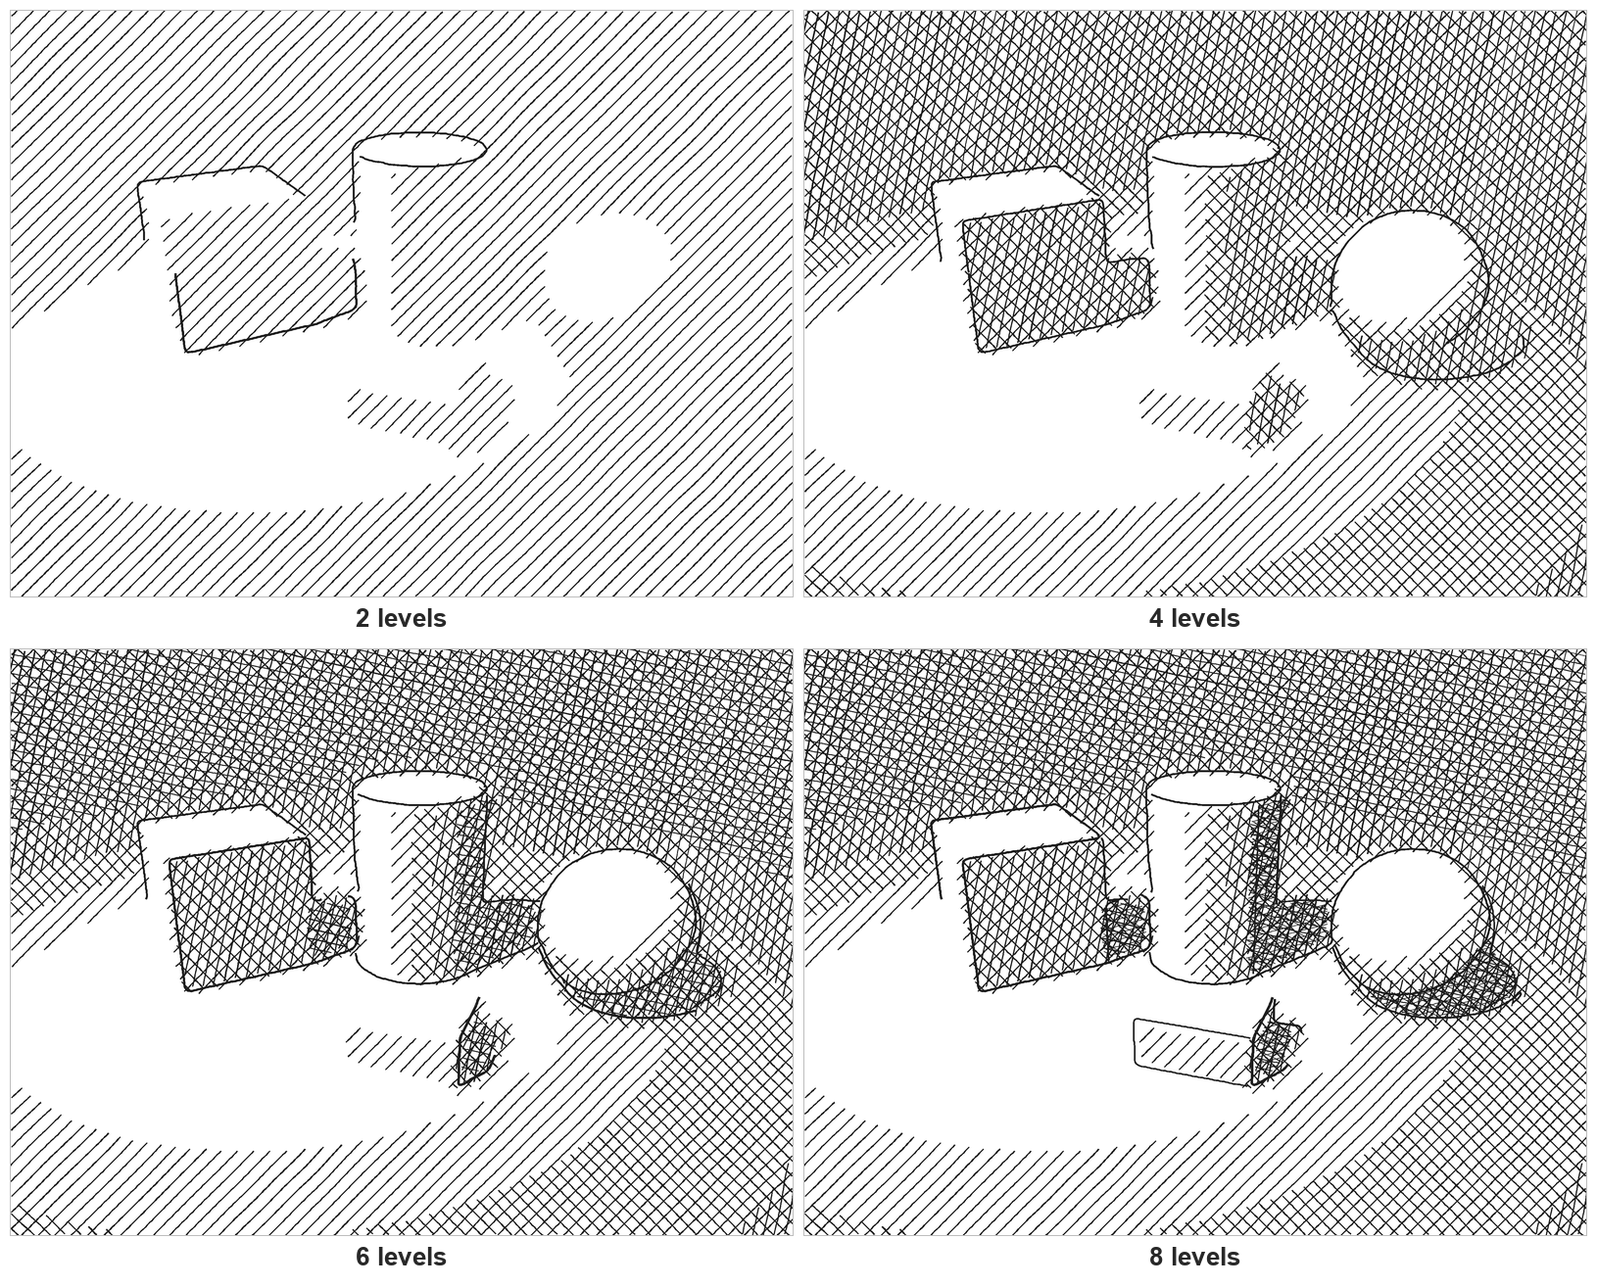
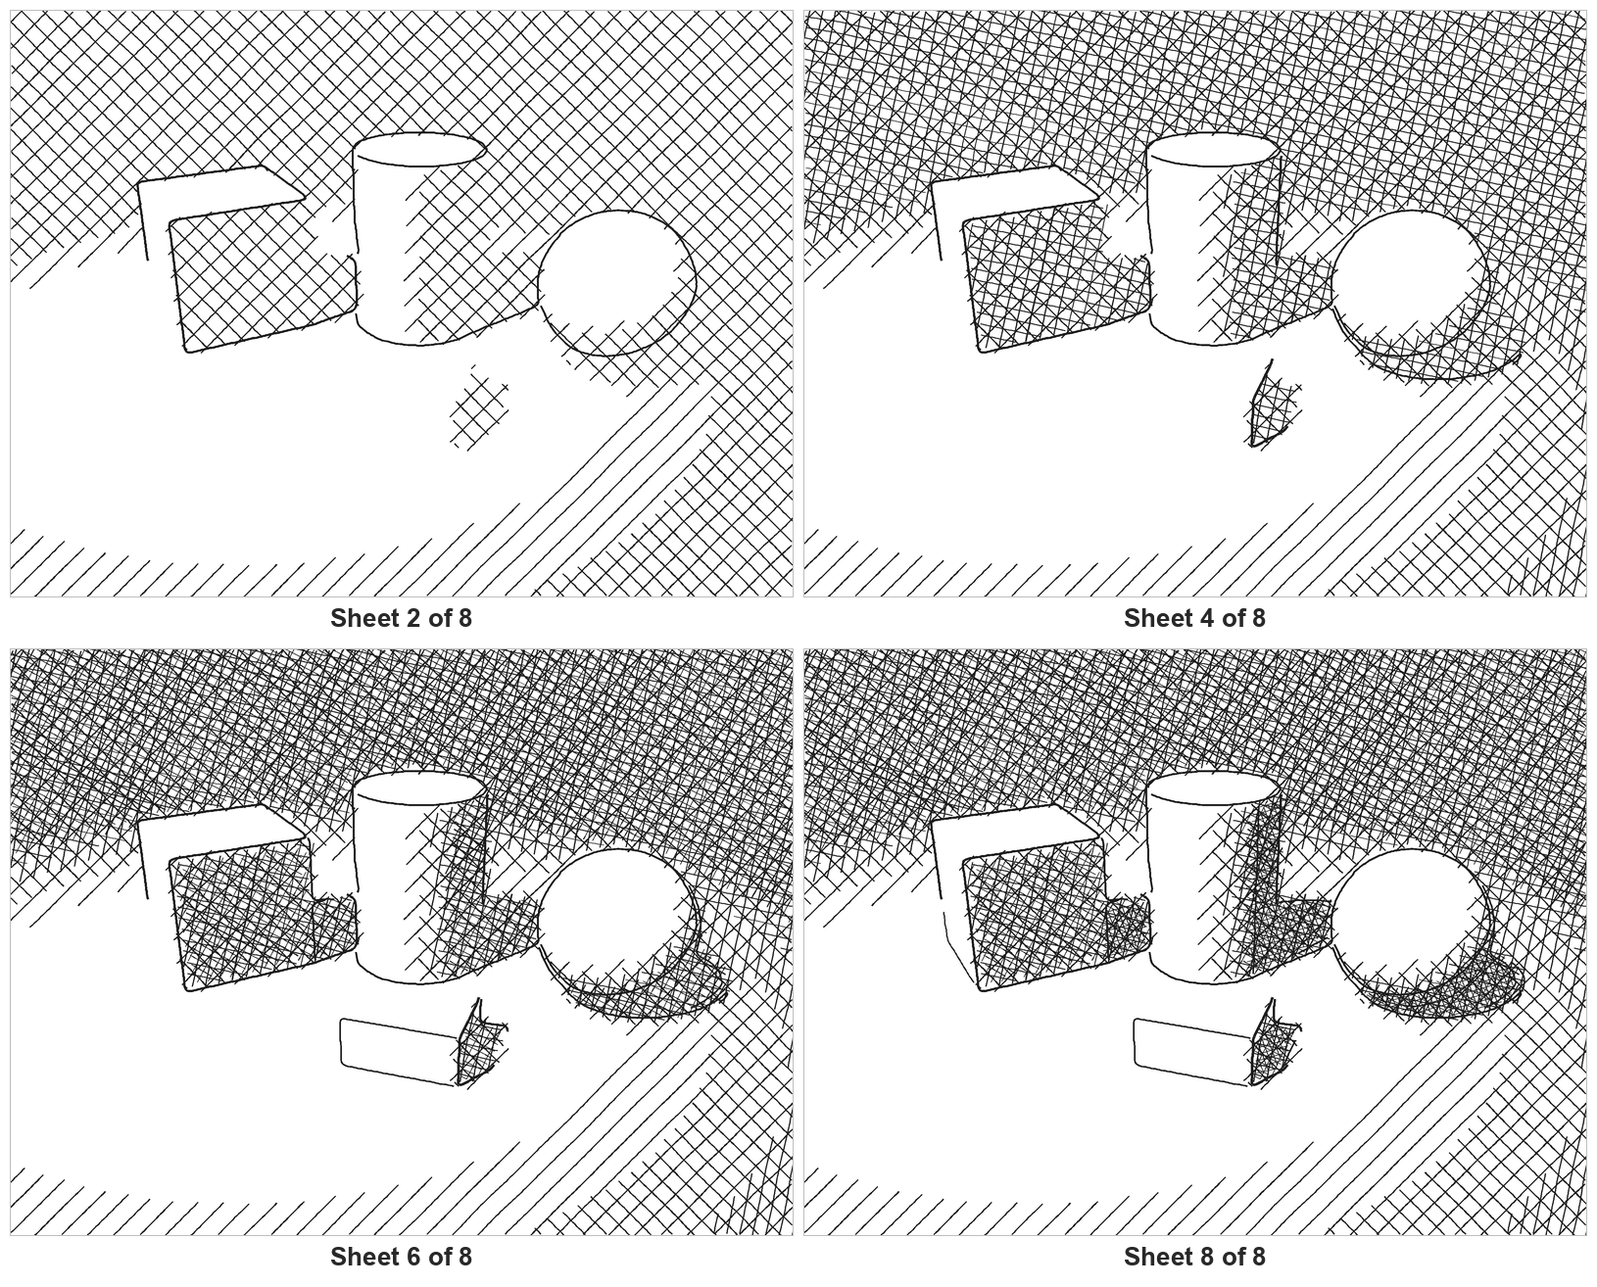
Crosshatch: additive sheets from a single sheet count, zones from the layered shadows
Pick one number and get that many sheets; each repeats the previous strokes and
adds a layer. Zones use the same additive grey cuts as the layered mode (or the
detail-adapted ones), and line spacing depends on the total. README and docs image
updated.

diff --git a/app.py b/app.py
@@ -159,7 +159,7 @@ class ExportWorker(QThread):
         for n in self.levels:
             try:
                 arr = core.blur_contrast(gray, self.blurs[n] * eff)
-                img = (hatching.hatch(arr, n, self.outlines) if self.mode == "trazos"
+                img = (core.hatch(arr, n, self.outlines, self.adaptive, max(self.levels)) if self.mode == "trazos"
                        else core.quantize(arr, n, self.mode, only_new=self.only_new,
                                           adaptive=self.adaptive, guide=max(self.levels)))
             except Exception as e:
@@ -171,7 +171,8 @@ class ExportWorker(QThread):
             name = core.output_name(self.base, n, self.blurs[n], self.mode,
                                     self.upscale, self.fmt, self.only_new)
             cap = (f"Lámina {n - 1} de {len(self.levels)}"
-                   if self.mode == "capas" and self.only_new else f"{n} niveles")
+                   if self.mode == "trazos" or (self.mode == "capas" and self.only_new)
+                   else f"{n} niveles")
             emit_one(cap, img, name)
         if self.include_gray:
             ofmt = "png" if self.fmt == "svg" else self.fmt   # el original no es vectorial
@@ -225,12 +226,12 @@ INSTRUCTIONS_HATCH = [
     ("title", "Sombreado cruzado"),
     ("text", "Cómo usar estas hojas para construir la sombra con trazos."),
     ("step", "1.  El blanco es el papel: déjalo vacío. Solo se dibujan trazos."),
-    ("step", "2.  Empieza por la hoja con menos niveles: rellena con líneas paralelas, "
-             "en la dirección que ves, las zonas con trazos. Es tu primera capa."),
-    ("step", "3.  En la hoja siguiente se conservan las zonas y los trazos de las "
-             "anteriores. No los cambies: cruza con una dirección nueva solo dentro de "
-             "las zonas más oscuras."),
-    ("step", "4.  Repite hasta el último nivel. Cuantas más capas se cruzan en un "
+    ("step", "2.  Empieza por la hoja 1: rellena con líneas paralelas, en la dirección que "
+             "ves, las zonas con trazos. Es tu primera capa."),
+    ("step", "3.  Cada hoja siguiente repite exactamente los trazos de la anterior y suma una "
+             "capa: cruza con una dirección distinta solo dentro de las zonas más oscuras "
+             "(las mismas sombras que en «Sombras en capas»). No cambies lo ya dibujado."),
+    ("step", "4.  Sigue hasta la última hoja. Cuantas más capas se cruzan en un "
              "sitio, más oscuro queda."),
 ]
 
@@ -445,13 +446,15 @@ INFO_TEXTS = {
         "<b>Sombreado cruzado: la sombra se construye con trazos</b>"
         "<ul style='margin:3px 0 3px -18px'>"
         "<li><b>El blanco es el papel:</b> se deja vacío. Solo se dibujan líneas.</li>"
-        "<li><b>Nivel 2:</b> una sola dirección de líneas paralelas, donde hay sombra, "
+        "<li><b>Lámina 1:</b> una sola dirección de líneas paralelas, donde hay sombra, "
         "y las líneas principales de los contornos (silueta, ojos, boca…).</li>"
-        "<li><b>Cada nivel más</b> añade una dirección nueva que cruza las anteriores, "
-        "solo dentro de las zonas más oscuras. Los trazos previos no cambian.</li></ul>"
-        "<b>Cuantos más niveles, más juntas van las líneas</b> de las capas nuevas, "
-        "así que cada nivel oscurece de verdad.<br>"
-        "<b>Uso:</b> dibuja primero las líneas del nivel 2 y ve cruzando encima.<br>"
+        "<li><b>Cada lámina más</b> añade una dirección nueva que cruza las anteriores, "
+        "solo dentro de las sombras aditivas del modo capas: las mismas zonas.</li></ul>"
+        "<b>Eliges cuántas láminas quieres</b> y se generan todas, de forma aditiva: cada "
+        "una repite los trazos de la anterior y suma una capa. Con pocas láminas las "
+        "líneas empiezan juntas; con muchas, más separadas y se van cerrando capa a capa "
+        "para que quepan todas.<br>"
+        "<b>Uso:</b> dibuja la lámina 1 y ve cruzando encima con cada lámina siguiente.<br>"
         "<span style='color:#777'>En «Salida» puedes guardar SVG vectorial, y el PDF "
         "lleva los trazos como vectores: nítidos a cualquier tamaño.</span>"),
     "cuantiles": (
@@ -650,7 +653,9 @@ class PosterizerApp(QWidget):
                                "por tono, de la más clara a la más oscura.")
         self.sheets.valueChanged.connect(self._params_changed)
         sg.addWidget(self.sheets)
-        sg.addWidget(QLabel("Una lámina por tono, de claro a oscuro."))
+        self.sheets_hint = QLabel()
+        self.sheets_hint.setWordWrap(True)
+        sg.addWidget(self.sheets_hint)
         side.addWidget(self.sheets_box)
         self.levels_box = box = QGroupBox("Niveles a generar")
         g = QGridLayout(box)
@@ -730,7 +735,7 @@ class PosterizerApp(QWidget):
         og.addWidget(self.new_chk, 12, 0, 1, 2)
         self.new_chk.setVisible(False)
         self.adapt_chk = QCheckBox("Niveles adaptados al detalle de la foto")
-        self.adapt_chk.setToolTip("Sombras en capas: reparte los umbrales donde la foto tiene más "
+        self.adapt_chk.setToolTip("Sombras en capas y sombreado cruzado: reparte los umbrales donde la foto tiene más "
                                   "detalle (p. ej. el pelo en una foto oscura) en vez de usar "
                                   "tonos fijos.")
         self.adapt_chk.toggled.connect(self._params_changed)
@@ -1044,26 +1049,36 @@ class PosterizerApp(QWidget):
         if self.prog.isChecked():
             mn = self.blur_min.value() / 10
             mx, mn = max(mx, mn), min(mx, mn)
-        return core.level_blurs(self._selected_levels(), mx, mn)
+        blurs = core.level_blurs(self._selected_levels(), mx, mn)
+        if self.mode.currentData() == "trazos" and blurs:
+            # láminas aditivas: todas parten de la misma imagen, así que las zonas no cambian
+            blurs = dict.fromkeys(blurs, blurs[max(blurs)])
+        return blurs
 
     def _checked_levels(self):
         return [n for n, cb in self.level_checks.items() if cb.isChecked()]
 
-    def _guided(self):
-        """Capas con una lámina por tono: se pide un solo número y se generan todas."""
-        return self.mode.currentData() == "capas" and self.new_chk.isChecked()
+    def _sheet_mode(self):
+        """Capas con una lámina por tono, o trazos (siempre aditivos): se pide un solo
+        número y se generan todas las láminas."""
+        mode = self.mode.currentData()
+        return mode == "trazos" or (mode == "capas" and self.new_chk.isChecked())
 
     def _selected_levels(self):
-        if self._guided():      # k láminas = k sombras = niveles 2..k+1
+        if self._sheet_mode():      # k láminas = k sombras/capas = niveles 2..k+1
             return list(range(2, self.sheets.value() + 2))
         return self._checked_levels()
 
     def _update_level_ui(self, *_):
         capas = self.mode.currentData() == "capas"
         self.new_chk.setVisible(capas)
-        self.adapt_chk.setVisible(capas)
-        self.sheets_box.setVisible(self._guided())
-        self.levels_box.setVisible(not self._guided())
+        self.adapt_chk.setVisible(capas or self.mode.currentData() == "trazos")
+        self.sheets_hint.setText(
+            "Cada lámina repite los trazos de la anterior y suma una capa nueva."
+            if self.mode.currentData() == "trazos"
+            else "Una lámina por tono, de claro a oscuro.")
+        self.sheets_box.setVisible(self._sheet_mode())
+        self.levels_box.setVisible(not self._sheet_mode())
 
     def _update_size_info(self, *_):
         if self.cropped is None:
@@ -1088,7 +1103,7 @@ class PosterizerApp(QWidget):
         items = []
         for n in self._selected_levels():
             arr = core.blur_contrast(gray, blurs[n] * self.preview_scale)
-            cap = f"Lámina {n - 1} de {self.sheets.value()}" if self._guided() else f"{n} niveles"
+            cap = f"Lámina {n - 1} de {self.sheets.value()}" if self._sheet_mode() else f"{n} niveles"
             if self.prog.isChecked():
                 cap += f" · desenf. {blurs[n]:.1f}"
             items.append((cap, core.quantize(arr, n, mode, self.outline_chk.isChecked(),

diff --git a/hatching.py b/hatching.py
@@ -2,9 +2,11 @@
 Sombreado cruzado (crosshatching) en capas anidadas. Sin interfaz.
 
 Cada nivel nuevo añade UNA capa de trazos, en otra dirección, dentro de la zona
-más oscura que la anterior; los trazos de las capas previas no cambian. Las
-zonas se calculan por cuantiles de la propia foto (cada capa cubre un % fijo de
-la imagen), así que son las mismas en 2, 3, 4… niveles.
+más oscura que la anterior. Las zonas son las sombras ADITIVAS del modo «capas»
+(umbrales de gris que le pasa quien llama), así que cada capa cubre justo lo que
+ese nivel sombrearía allí. La separación de las líneas depende del nº total de
+niveles: con pocos, la primera capa va más apretada; con muchos, empieza más
+separada y se va cerrando para que quepan todos.
 
 Los trazos se generan como GEOMETRÍA (polilíneas), no como píxeles, de modo que
 la misma geometría sirve para:
@@ -23,14 +25,13 @@ import numpy as np
 from PIL import Image, ImageDraw, ImageFilter
 
 HATCH_MAX_LEVELS = 10                 # n niveles = n-1 capas de trazos
-# Una entrada por capa. Cada capa tiene su zona, dirección y separación FIJAS, así que
-# al subir de nivel solo se añade una capa nueva y las anteriores no cambian. Cuanto más
-# profunda la capa, más juntas van sus líneas (y algo más finas) para que cada nivel nuevo
-# oscurezca de verdad.
-COVER = [78, 60, 44, 31, 22, 15, 10, 6, 3]           # % más oscuro de la imagen que cubre
+# Una entrada por capa para la dirección. Cuanto más profunda la capa, más juntas van sus
+# líneas (y algo más finas) para que cada nivel nuevo oscurezca de verdad.
 ANGLES = [45, 135, 12, 102, 28, 118, 75, 160, 58]    # dirección de los trazos (grados)
-SPACING = [16, 15, 14, 13, 12, 10.5, 9, 8, 7]        # separación entre trazos (px de análisis)
-THICKNESS = [2.0, 2.0, 1.9, 1.8, 1.7, 1.5, 1.4, 1.3, 1.2]   # grosor (px de análisis)
+# Separación entre trazos (px de análisis): la capa 1 arranca en FIRST_BASE + FIRST_STEP por
+# cada capa extra que habrá en total, y la última capa siempre acaba en LAST_SPACING.
+FIRST_BASE, FIRST_STEP, LAST_SPACING = 10.0, 2.2, 7.0
+THICK_FIRST, THICK_LAST = 2.0, 1.2                   # grosor de la primera y la última capa
 WOBBLE = 2.2                          # cuánto serpentea el trazo (px de análisis)
 INK = 30                              # tono de la tinta (0 = negro)
 ANALYSIS_SIDE = 1080                  # lado mayor de referencia: todas las medidas de arriba
@@ -46,6 +47,16 @@ OUTLINE_MIN_LEN = 36.0                # contornos más cortos se descartan (px d
 # Fracción acumulada de la "importancia" total (longitud x fuerza) que ya está dibujada
 # en cada capa: la primera trae lo principal, las siguientes añaden lo fino.
 OUTLINE_FRAC = [0.34, 0.52, 0.66, 0.77, 0.85, 0.91, 0.95, 0.98, 1.0]
+
+
+def layer_spacings(layers):
+    """Separación de cada capa para un total de `layers` capas: de más abierta (la primera,
+    tanto más cuantas más capas haya) a LAST_SPACING en la última, en progresión geométrica."""
+    first = FIRST_BASE + FIRST_STEP * (layers - 1)
+    if layers == 1:
+        return [first]
+    r = (LAST_SPACING / first) ** (1 / (layers - 1))
+    return [first * r ** i for i in range(layers)]
 
 
 def _noise_field(seed, scale, aw, ah):
@@ -262,9 +273,14 @@ class HatchImage:
         return "\n".join(out)
 
 
-def hatch(arr, levels, outlines=False):
+def hatch(arr, levels, thresholds, outlines=False, total=None):
     """Array en gris (0-255, ya con autocontraste) -> HatchImage de `levels` niveles.
+    `thresholds` = umbrales de gris (de claro a oscuro, `levels`-1 como mínimo): la capa i
+    sombrea lo que sea más oscuro que thresholds[i] (las sombras aditivas del modo capas).
     Con `outlines` se dibujan además los contornos (bordes reales de la foto).
+    `total` = nº de niveles de la tirada completa (por defecto, `levels`): la separación y el
+    grosor de cada capa se calculan para ese total, así que las láminas de una misma tirada
+    (2, 3, … `total` niveles) son ADITIVAS: cada una repite los trazos de la anterior y suma una capa.
     Los trazos se calculan a min(1080, lado mayor) px: una vista previa pequeña es
     ligera y se ve igual que la exportación final."""
     if not 2 <= levels <= HATCH_MAX_LEVELS:
@@ -276,9 +292,13 @@ def hatch(arr, levels, outlines=False):
     aw, ah = max(1, round(w * k)), max(1, round(h * k))
     small = Image.fromarray(np.clip(arr, 0, 255).astype("uint8")).resize((aw, ah), Image.LANCZOS)
     gray = np.array(small.filter(ImageFilter.GaussianBlur(8 * u))).astype(np.float32)
+    n = levels - 1
+    tot = max(n, (total or levels) - 1)
+    spacing = layer_spacings(tot)
     layers = []
-    for i in range(levels - 1):
-        region = _clean_region(gray < np.percentile(gray, COVER[i]), u)
-        layers.append(_layer_strokes(region, ANGLES[i], SPACING[i], THICKNESS[i], i, aw, ah, u))
+    for i in range(n):
+        thick = THICK_FIRST + (THICK_LAST - THICK_FIRST) * (i / (tot - 1) if tot > 1 else 0)
+        region = _clean_region(gray < thresholds[i], u)
+        layers.append(_layer_strokes(region, ANGLES[i], spacing[i], thick, i, aw, ah, u))
     contours = _outline_layers(np.array(small, dtype=np.float32), levels, u) if outlines else None
     return HatchImage(w, h, aw, ah, layers, contours)

diff --git a/posterizer_core.py b/posterizer_core.py
@@ -114,6 +114,19 @@ def adaptive_thresholds(arr, count=NESTED_MAX_LEVELS - 1):
     return out
 
 
+def nested_cuts(arr, levels, adaptive=False):
+    """Umbrales de gris de las `levels`-1 sombras aditivas del modo capas (fijos, o
+    adaptados al detalle de la foto). Los usa también el sombreado cruzado."""
+    thr = adaptive_thresholds(arr) if adaptive else NESTED_THRESHOLDS
+    return thr[:levels - 1]
+
+
+def hatch(arr, levels, outlines=False, adaptive=False, total=None):
+    """Sombreado cruzado (HatchImage) con las zonas de las sombras aditivas de 'capas'.
+    `total` = niveles de la tirada: las láminas de una misma tirada son aditivas."""
+    return hatching.hatch(arr, levels, nested_cuts(arr, levels, adaptive), outlines, total)
+
+
 def quantize_nested(arr, levels, only_new=False, adaptive=False):
     """Array en gris -> imagen PIL 'L' con sombras anidadas (modo 'capas').
     Con `only_new` solo se dibuja la sombra añadida en este nivel (la zona más oscura
@@ -160,7 +173,8 @@ def quantize(arr, levels, mode="cuantiles", outlines=False, only_new=False, adap
              guide=None):
     """Array en gris -> imagen PIL 'L' con exactamente `levels` tonos.
     Modo 'capas' con `only_new` y `guide` (nº total de niveles): la imagen sale en RGB con
-    una tira de tonos encima que marca el que toca pintar."""
+    una tira de tonos encima que marca el que toca pintar. En 'trazos', `guide` es el total
+    de la tirada, para que sus láminas sean aditivas."""
     if levels < 2:
         raise ValueError("El número de niveles debe ser al menos 2.")
     if mode == "capas":
@@ -169,7 +183,7 @@ def quantize(arr, levels, mode="cuantiles", outlines=False, only_new=False, adap
             img = add_tone_guide(img, levels, max(guide, levels))
         return img
     if mode == "trazos":
-        return hatching.hatch(arr, levels, outlines).render()
+        return hatch(arr, levels, outlines, adaptive, guide).render()
     if mode == "cuantiles":
         pct = np.linspace(0, 100, levels + 1)[1:-1]
         thresholds = np.percentile(arr, pct)

diff --git a/docs/make_docs.py b/docs/make_docs.py
@@ -204,9 +204,18 @@ def main():
     sheet(panels, 3).save(os.path.join(HERE, "capas_laminas.png"), optimize=True)
     print("ok capas_laminas")
 
+    # Sombreado cruzado: 8 láminas aditivas (cada una suma una capa a la anterior); se
+    # muestran la 2, 4, 6 y 8. Todas parten de la misma imagen, con el desenfoque mínimo.
+    total = 8
+    arr = core.blur_contrast(gray, 0.5)
+    panels = [(f"Sheet {n} of {total}",
+               core.hatch(arr, n + 1, outlines=True, total=total + 1).render())
+              for n in (2, 4, 6, 8)]
+    sheet(panels, 2).save(os.path.join(HERE, "trazos.png"), optimize=True)
+    print("ok trazos")
+
     jobs = {
         "capas": ([2, 4, 6, 8], lambda a, n: core.quantize(a, n, "capas")),
-        "trazos": ([2, 4, 6, 8], lambda a, n: hatching.hatch(a, n, outlines=True).render()),
         "cuantiles": ([3, 4, 5, 6], lambda a, n: core.quantize(a, n, "cuantiles")),
         "lineal": ([3, 4, 5, 6], lambda a, n: core.quantize(a, n, "lineal")),
     }

diff --git a/README.md b/README.md
@@ -32,8 +32,10 @@ image per level so you can compare a 3-value study with a 6-value one side by si
   on top marks the current one in red. Shadows are additive: you paint each sheet over
   the previous one. An in-app panel explains how to use it.
 - **Crosshatching** mode: shadows built from strokes. Each extra level (up to 10) adds a
-  new stroke direction that crosses the previous ones, only inside the darker zones,
-  with the lines getting closer together on deeper layers. Optionally it also draws
+  new stroke direction that crosses the previous ones, only inside the same additive
+  shadows as the layered mode. You pick one number of sheets and get them all, each one
+  repeating the strokes of the previous sheet and adding a layer. The line spacing adapts
+  to that number: few sheets start with tight lines, many start wider and close in layer by layer. Optionally it also draws
   the photo's real edges as clean line work (silhouette, eyelids, nose, mouth), ordered
   by importance: level 2 keeps only the main lines and each level adds finer ones.
   Save it as **vector SVG** and the PDF carries real strokes, sharp at any size.
@@ -70,13 +72,17 @@ for instance) instead of at fixed greys.
 
 ### Crosshatching
 
-Shadows built from strokes, up to 10 levels. Each level adds a new direction of lines
-that crosses the previous ones, only inside the darker zones, and the lines get closer
-together on deeper layers. Optional outlines draw the photo's real edges as clean line
+Shadows built from strokes, up to 9 sheets. You choose one number and the app makes every
+sheet, **additively**: each sheet repeats the strokes of the previous one and adds a new
+direction of lines that crosses them. The zones are exactly the additive shadows of the
+layered mode (the same grey cuts, or the detail-adapted ones). The spacing depends on how
+many sheets you ask for: with 2 the single layer is tight, with 9 the first layer starts
+wide and each new layer closes the lines until the last one, so there is room for every
+sheet. Draw sheet 1, then cross over it with each next sheet. Optional outlines draw the photo's real edges as clean line
 work, ordered by importance: level 2 keeps the main lines and each level adds finer
 ones. Save it as vector SVG, or print the PDF: the strokes are real vectors.
 
-![Crosshatching at 2, 4, 6 and 8 levels, with outlines](https://raw.githubusercontent.com/sakur33/DrawingPosterizer/main/docs/trazos.png)
+![Crosshatching, sheets 2, 4, 6 and 8 of 8, with outlines](https://raw.githubusercontent.com/sakur33/DrawingPosterizer/main/docs/trazos.png)
 
 ### Quantiles and Linear
 
@@ -162,12 +168,19 @@ gradiente local de la foto en vez de usar los fijos.
 ## Modo «Sombreado cruzado»
 
 Cuarto método (`trazos`, módulo `hatching.py`). Cada nivel (hasta 10) añade una capa de
-trazos en otra dirección dentro de la zona más oscura de la anterior, con las líneas
-cada vez más juntas en las capas profundas, y opcionalmente los contornos: los bordes reales
+trazos en otra dirección dentro de la zona más oscura de la anterior. Las zonas son las
+sombras aditivas del modo «capas» (`nested_cuts` en `posterizer_core.py`: los mismos
+umbrales, o los adaptados al detalle) y `hatching.hatch` las recibe como `thresholds`. La
+separación de las líneas depende del nº total de láminas (`layer_spacings`): la primera
+capa arranca más apretada con pocas y más abierta con muchas, y la última acaba siempre en
+`LAST_SPACING`. Como en «capas» con una hoja por tono, la app pide **un solo número** k y
+genera k láminas **aditivas**: la lámina j es `hatch(arr, j+1, total=k+1)`, es decir, las
+primeras j capas de la tirada (mismos trazos que la anterior + una capa). Todas parten de la
+misma imagen desenfocada (`_blurs` fuerza un único desenfoque) para que las zonas no
+cambien entre láminas. Opcionalmente los contornos: los bordes reales
 de la foto (silueta, párpados, nariz, boca), detectados como en un dibujo de línea y
 ordenados por importancia: el nivel 2 trae las líneas principales y cada nivel añade
-otras más finas; las zonas salen
-de cuantiles de la propia foto, así que son las mismas en todos los niveles. Los trazos
+otras más finas. Los trazos
 se generan como **geometría** (polilíneas), no como píxeles: de ahí salen la imagen
 (PNG/JPG), el **SVG** vectorial (una capa por nivel, a la medida elegida) y el PDF, que
 dibuja los trazos como vectores.
